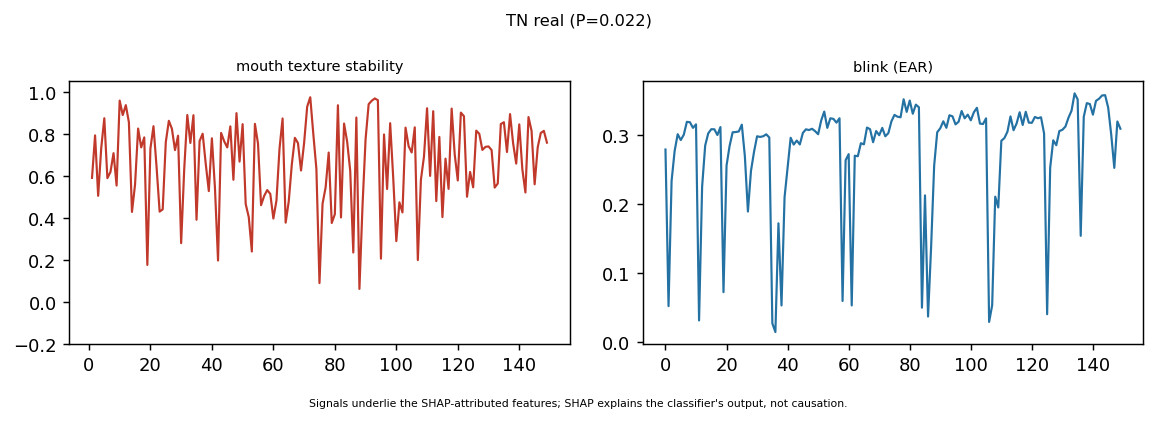
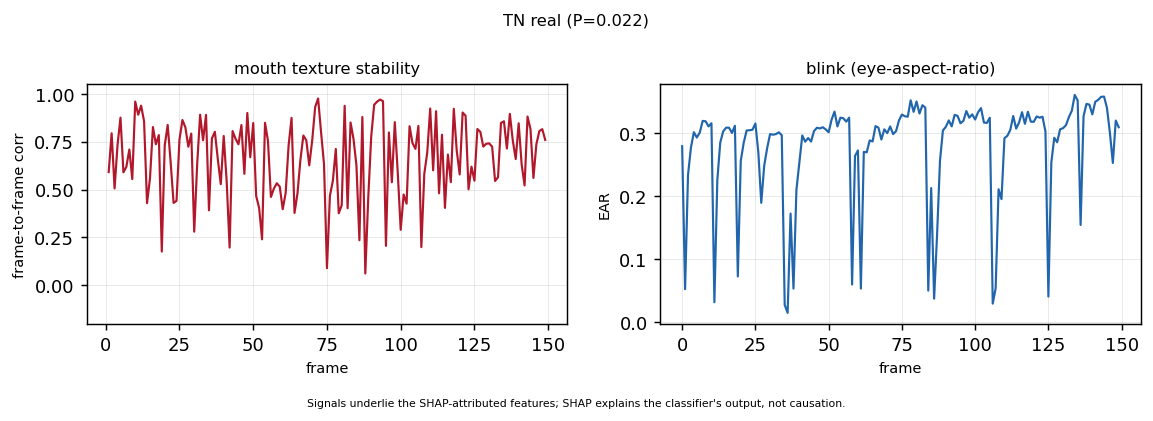
Publication figures: 10 validated colorblind-safe figures (real data) + polished signal plots

Changed region(s): [[0.0, 0.1235, 0.9991, 0.8955], [0.2498, 0.9264, 0.5932, 0.9881], [0.4371, 0.0309, 0.562, 0.0618]]

diff --git a/Major Revision Results/00_logs/pub_figures.py b/Major Revision Results/00_logs/pub_figures.py
@@ -1,0 +1,155 @@
+#!/usr/bin/env python3
+"""Publication-quality figures for the revision — renders REAL committed numbers only (no fabrication).
+Reads results_clean/*.{json,csv}. Validated colorblind-safe palette. 300 DPI, direct labels, CIs."""
+import os,json,numpy as np,pandas as pd
+import matplotlib; matplotlib.use("Agg"); import matplotlib.pyplot as plt
+from matplotlib.patches import Patch
+R="results_clean"; FIG="Major Revision Results/03_figures/publication"; os.makedirs(FIG,exist_ok=True)
+BLUE,ORANGE,PURPLE,RED="#2166AC","#E08214","#762A83","#B2182B"; GREY="#52514e"
+plt.rcParams.update({'font.size':11,'axes.titlesize':12,'axes.labelsize':11,'xtick.labelsize':9.5,
+ 'ytick.labelsize':9.5,'legend.fontsize':9.5,'figure.dpi':300,'savefig.dpi':300,'savefig.bbox':'tight',
+ 'axes.spines.top':False,'axes.spines.right':False,'axes.axisbelow':True,'font.family':'DejaVu Sans'})
+def grid(ax): ax.grid(True,axis='y',alpha=0.3,lw=0.5); ax.set_axisbelow(True)
+def lbl(ax,bars,fmt="{:.3f}",dy=0.004,fs=8.5):
+    for b in bars:
+        h=b.get_height(); ax.text(b.get_x()+b.get_width()/2,h+dy,fmt.format(h),ha='center',va='bottom',fontsize=fs)
+MAN=["Deepfakes","FaceSwap","Face2Face","NeuralTextures"]; mk=lambda s:s.lower()
+
+# ---- Fig 1: per-manipulation AUC 50-D vs 53-D (+CI, +significance) ----
+tc=json.load(open(f"{R}/track_c_53D_full.json"))
+dl={r['manip']:r for r in pd.read_csv(f"{R}/delong_53vs50.csv").to_dict('records')}
+fig,ax=plt.subplots(figsize=(7.2,4.2)); x=np.arange(len(MAN)); w=0.38
+a50=[tc[m]['base50'][0] for m in MAN]; a53=[tc[m]['plusG1'][0] for m in MAN]
+e50=[[a-tc[m]['base50'][1][0] for a,m in zip(a50,MAN)],[tc[m]['base50'][1][1]-a for a,m in zip(a50,MAN)]]
+e53=[[a-tc[m]['plusG1'][1][0] for a,m in zip(a53,MAN)],[tc[m]['plusG1'][1][1]-a for a,m in zip(a53,MAN)]]
+b1=ax.bar(x-w/2,a50,w,yerr=e50,capsize=3,color=BLUE,label='50-D (base)',error_kw=dict(lw=1,ecolor=GREY))
+b2=ax.bar(x+w/2,a53,w,yerr=e53,capsize=3,color=ORANGE,label='53-D (+G1 mouth)',error_kw=dict(lw=1,ecolor=GREY))
+lbl(ax,b1,dy=0.012); lbl(ax,b2,dy=0.012)
+for i,m in enumerate(MAN):
+    p=dl[m]['p_value'] if m in dl else 1
+    s='***' if p<1e-3 else '**' if p<1e-2 else '*' if p<0.05 else 'n.s.'
+    yst=max(a50[i]+e50[1][i],a53[i]+e53[1][i])+0.012; ax.text(x[i],yst,s,ha='center',fontsize=11,fontweight='bold')
+ax.set_xticks(x); ax.set_xticklabels(MAN); ax.set_ylabel('AUC (identity-disjoint test)'); ax.set_ylim(0.6,1.06)
+ax.set_title('In-distribution detection: 50-D vs 53-D (extended)',pad=14); ax.legend(loc='lower right'); grid(ax)
+ax.text(0.01,-0.17,'Error bars: bootstrap 95% CI. Significance: DeLong test (*** p<0.001, ** p<0.01, * p<0.05, n.s. not sig.).',transform=ax.transAxes,fontsize=7.5,color=GREY)
+plt.savefig(f"{FIG}/fig1_indist_50v53.png"); plt.close()
+
+# ---- Fig 2: generalization ladder (in-dist -> cross-manip -> cross-dataset) + Xception ----
+bl=json.load(open(f"{R}/baseline.json"))['results']; xc=json.load(open(f"{R}/xception_baseline.json"))
+fig,ax=plt.subplots(figsize=(7.6,4.2))
+cats=['In-dist\n(mean per-manip)','Cross-manip\n(LOMO mean)','Zero-shot\nCeleb-DF','Zero-shot\nWildDeepfake']
+prism=[np.mean([bl['regime1_in_distribution'][m]['auc'] for m in bl['regime1_in_distribution']]),
+       np.mean([bl['regime2_cross_manip_LOMO'][m]['auc'] for m in bl['regime2_cross_manip_LOMO']]),
+       bl['regime3_zero_shot_celebdf']['CelebDF_v2']['auc'],
+       json.load(open(f"{R}/zeroshot_wilddeepfake.json"))['auc']]
+xcep=[xc['ffpp_test_overall']['auc'],np.nan,xc['celebdf_zeroshot']['auc'],np.nan]
+x=np.arange(len(cats)); w=0.38
+b1=ax.bar(x-w/2,prism,w,color=BLUE,label='PRISM (physics, CPU)')
+b2=ax.bar([x[i]+w/2 for i in range(len(cats)) if not np.isnan(xcep[i])],[v for v in xcep if not np.isnan(v)],w,color=PURPLE,label='Xception (deep, GPU)')
+lbl(ax,b1,dy=0.012); lbl(ax,b2,dy=0.012)
+ax.axhline(0.5,ls='--',lw=1,color=GREY); ax.text(len(cats)-0.5,0.51,'chance',fontsize=8,color=GREY,ha='right')
+ax.set_xticks(x); ax.set_xticklabels(cats); ax.set_ylabel('AUC'); ax.set_ylim(0.4,1.02)
+ax.set_title('Generalization: in-distribution → cross-manipulation → cross-dataset'); ax.legend(loc='upper right'); grid(ax)
+plt.savefig(f"{FIG}/fig2_generalization.png"); plt.close()
+
+# ---- Fig 3: compression c23 vs c40 ----
+cp=json.load(open(f"{R}/compression.json"))
+pm={r['manipulation']:r for r in cp['per_manip']}
+fig,ax=plt.subplots(figsize=(7.2,4.2)); x=np.arange(len(MAN)); w=0.38
+c23=[pm[mk(m)]['c23_auc'] for m in MAN]; c40=[pm[mk(m)]['c40_auc'] for m in MAN]
+b1=ax.bar(x-w/2,c23,w,color=BLUE,label='c23 (light compression)'); b2=ax.bar(x+w/2,c40,w,color=RED,label='c40 (heavy compression)')
+lbl(ax,b1,dy=0.008); lbl(ax,b2,dy=0.008)
+for i,m in enumerate(MAN): ax.text(x[i],min(c23[i],c40[i])-0.05,f"Δ{pm[mk(m)]['delta_auc']:+.3f}",ha='center',fontsize=8,color=RED)
+ax.set_xticks(x); ax.set_xticklabels(MAN); ax.set_ylabel('AUC'); ax.set_ylim(0.6,1.02)
+ax.set_title('Compression robustness (c23 vs c40), per manipulation'); ax.legend(loc='lower left'); grid(ax)
+plt.savefig(f"{FIG}/fig3_compression.png"); plt.close()
+
+# ---- Fig 4: pillar-only standalone AUC heatmap (20 pillars x 5 datasets) ----
+po=pd.read_csv(f"{R}/pillar_only.csv"); order=list(json.load(open("splits/pillar_map.json")).keys())
+piv=po.pivot(index="pillar",columns="dataset",values="pillar_only_auc").reindex(index=order,columns=["Deepfakes","Face2Face","FaceSwap","NeuralTextures","CelebDF"])
+fig,ax=plt.subplots(figsize=(6.4,7.6))
+im=ax.imshow(piv.values,cmap='YlOrRd',vmin=0.5,vmax=1.0,aspect='auto')
+ax.set_xticks(range(piv.shape[1])); ax.set_xticklabels(piv.columns,rotation=30,ha='right')
+ax.set_yticks(range(piv.shape[0])); ax.set_yticklabels(piv.index,fontsize=8)
+for i in range(piv.shape[0]):
+    for j in range(piv.shape[1]):
+        v=piv.values[i,j]; ax.text(j,i,f"{v:.2f}",ha='center',va='center',fontsize=6.5,color='white' if v>0.8 else 'black')
+plt.colorbar(im,fraction=0.046,pad=0.04,label='standalone AUC')
+ax.set_title('Per-pillar standalone discriminative power'); plt.savefig(f"{FIG}/fig4_pillar_standalone.png"); plt.close()
+
+# ---- Fig 5: SHAP cross-manipulation ranking Spearman ----
+ss=json.load(open(f"{R}/shap_stability.json")); sp=ss['per_manip_spearman']
+labels=["Deepfakes","Face2Face","FaceSwap","NeuralTextures"]; M=np.eye(4)
+for k,v in sp.items():
+    a,b=k.split('~'); i,j=labels.index(a),labels.index(b); M[i,j]=v; M[j,i]=v
+fig,ax=plt.subplots(figsize=(5.4,4.6)); im=ax.imshow(M,cmap='RdBu_r',vmin=-1,vmax=1)
+ax.set_xticks(range(4)); ax.set_xticklabels(labels,rotation=30,ha='right'); ax.set_yticks(range(4)); ax.set_yticklabels(labels)
+for i in range(4):
+    for j in range(4): ax.text(j,i,f"{M[i,j]:.2f}",ha='center',va='center',fontsize=9,color='white' if abs(M[i,j])>0.6 else 'black')
+plt.colorbar(im,fraction=0.046,pad=0.04,label="Spearman ρ")
+ax.set_title(f"SHAP ranking similarity across manipulations\n(cross-fold ρ={ss['mean_cross_fold_spearman']}, i.e. fold-stable)")
+plt.savefig(f"{FIG}/fig5_shap_stability.png"); plt.close()
+
+# ---- Fig 6: calibration real vs fake recall tradeoff ----
+cal=json.load(open(f"{R}/calibration.json"))['celebdf']
+fig,ax=plt.subplots(figsize=(7.0,4.2)); cfgs=[c['config'] for c in cal]; x=np.arange(len(cfgs)); w=0.38
+rr=[c['real_recall'] for c in cal]; fr=[c['fake_recall'] for c in cal]
+b1=ax.bar(x-w/2,rr,w,color=BLUE,label='real recall'); b2=ax.bar(x+w/2,fr,w,color=ORANGE,label='fake recall')
+lbl(ax,b1,dy=0.01,fs=8); lbl(ax,b2,dy=0.01,fs=8)
+ax.set_xticks(x); ax.set_xticklabels([c.replace('_','\n') for c in cfgs],fontsize=8); ax.set_ylabel('recall (Celeb-DF)'); ax.set_ylim(0,1.05)
+ax.set_title('Threshold calibration only TRADES real vs fake recall (AUC fixed 0.632)'); ax.legend(loc='upper center',ncol=2); grid(ax)
+plt.savefig(f"{FIG}/fig6_calibration.png"); plt.close()
+
+# ---- Fig 7: runtime per-stage ----
+rt=json.load(open(f"{R}/runtime.json")); sm=rt['aggregate']['stage_means_s']
+fig,ax=plt.subplots(figsize=(6.8,4.0))
+stages=['frame_load_s','mediapipe_s','optical_flow_s','rppg_s','other_s']; names=['frame load','MediaPipe','optical flow','rPPG','other temporal']
+vals=[sm[s] for s in stages]; bars=ax.barh(names,vals,color=[BLUE,PURPLE,ORANGE,RED,GREY])
+for b,v in zip(bars,vals): ax.text(v+0.4,b.get_y()+b.get_height()/2,f"{v:.1f}s",va='center',fontsize=9)
+ax.set_xlabel('mean time per video (s), single CPU thread'); ax.invert_yaxis()
+ax.set_title(f"Per-stage extraction time  (total {rt['aggregate']['mean_total_extract_s']:.0f}s/video, RTF {rt['aggregate']['mean_rtf']}, {rt['aggregate']['mean_peak_ram_mb']/1000:.1f} GB RAM)")
+ax.grid(True,axis='x',alpha=0.3,lw=0.5); plt.savefig(f"{FIG}/fig7_runtime.png"); plt.close()
+
+# ---- Fig 8: PRNU residual method comparison ----
+pr=json.load(open(f"{R}/prnu_comparison.json"))['classification']
+methods=[r for r in pr if r['residual_method'] in ('median','gaussian','wavelet')]
+fig,ax=plt.subplots(figsize=(7.2,4.2)); x=np.arange(len(MAN)); w=0.26; cols=[BLUE,ORANGE,PURPLE]
+for k,(mth,c) in enumerate(zip(methods,cols)):
+    vals=[mth[f"auc_{mk(m)}"] for m in MAN]; b=ax.bar(x+(k-1)*w,vals,w,color=c,label=mth['residual_method'])
+    lbl(ax,b,dy=0.006,fs=7)
+ax.set_xticks(x); ax.set_xticklabels(MAN); ax.set_ylabel('AUC'); ax.set_ylim(0.6,1.02)
+ax.set_title('PRNU-inspired residual: method robustness (median≈gaussian≈wavelet; BM3D not computed)')
+ax.legend(title='residual method',loc='lower left',ncol=3); grid(ax)
+plt.savefig(f"{FIG}/fig8_prnu.png"); plt.close()
+
+# ---- Fig 9: rPPG per-condition ----
+rp=json.load(open(f"{R}/rppg_comparison.json"))['results']
+conds=['overall','c23','c40','low_motion','high_motion','low_illum','high_illum','short_seq','long_seq']
+clabels=['overall','c23','c40','low mot','high mot','low illum','high illum','short','long']
+fig,ax=plt.subplots(figsize=(8.6,4.2)); x=np.arange(len(conds)); w=0.26; cols=[BLUE,ORANGE,PURPLE]
+for k,(row,c) in enumerate(zip(rp,cols)):
+    vals=[row.get(cc) if row.get(cc) is not None else np.nan for cc in conds]
+    ax.bar(x+(k-1)*w,vals,w,color=c,label=row['method'])
+ax.axhline(0.5,ls='--',lw=1,color=GREY); ax.text(len(conds)-0.5,0.505,'chance',fontsize=8,color=GREY,ha='right')
+ax.set_xticks(x); ax.set_xticklabels(clabels,rotation=25,ha='right'); ax.set_ylabel('real-vs-fake AUC'); ax.set_ylim(0.4,0.65)
+ax.set_title('rPPG discriminative power by condition (weak; POS best & most compression-robust)')
+ax.legend(title='rPPG method',loc='upper right',ncol=3); grid(ax)
+plt.savefig(f"{FIG}/fig9_rppg.png"); plt.close()
+
+# ---- Fig 10: DeLong significance (full-50 vs top-k) ----
+st=json.load(open(f"{R}/statistical_tests.json"))['delong']
+sub=[r for r in st if 'full50_vs_top' in r['comparison']]
+fig,ax=plt.subplots(figsize=(7.6,4.2))
+names=[r['comparison'].replace('full50_vs_','').replace('[','\n[').replace(']','') for r in sub]
+diffs=[r['auc_diff'] for r in sub]; sig=[r['p_holm']<0.05 for r in sub]
+bars=ax.bar(range(len(sub)),diffs,color=[BLUE if s else GREY for s in sig])
+for i,(b,r) in enumerate(zip(bars,sub)):
+    st_=('***' if r['p_holm']<1e-3 else '**' if r['p_holm']<1e-2 else '*' if r['p_holm']<0.05 else 'n.s.')
+    ax.text(b.get_x()+b.get_width()/2,b.get_height()+0.003,st_,ha='center',fontsize=9,fontweight='bold')
+ax.set_xticks(range(len(sub))); ax.set_xticklabels(names,fontsize=7.5,rotation=0)
+ax.set_ylabel('AUC advantage of full-50 model'); ax.set_title('Full 50-feature model vs reduced sets (DeLong, Holm-corrected)')
+ax.legend(handles=[Patch(color=BLUE,label='significant (p_holm<0.05)'),Patch(color=GREY,label='n.s.')],loc='upper right'); grid(ax)
+plt.savefig(f"{FIG}/fig10_delong_topk.png"); plt.close()
+
+print("saved 10 publication figures to",FIG)
+for f in sorted(os.listdir(FIG)): print("  ",f)

diff --git a/Major Revision Results/00_logs/exp10_signals.py b/Major Revision Results/00_logs/exp10_signals.py
@@ -54,8 +54,8 @@ print(f"saved {FIG}/case_signals_all.png")
 for tag,(vp,title) in CASES.items():
     mouth,ear=signals(vp)
     fig,ax=plt.subplots(1,2,figsize=(9,3))
-    ax[0].plot(mouth,color="#c0392b",lw=1.2); ax[0].set_title("mouth texture stability",fontsize=8); ax[0].set_ylim(-0.2,1.05)
-    ax[1].plot(ear,color="#2471a3",lw=1.2); ax[1].set_title("blink (EAR)",fontsize=8)
+    ax[0].plot(mouth,color="#B2182B",lw=1.2); ax[0].set_title("mouth texture stability",fontsize=9); ax[0].set_ylim(-0.2,1.05); ax[0].set_xlabel("frame",fontsize=8); ax[0].set_ylabel("frame-to-frame corr",fontsize=8); ax[0].grid(alpha=0.3,lw=0.5)
+    ax[1].plot(ear,color="#2166AC",lw=1.2); ax[1].set_title("blink (eye-aspect-ratio)",fontsize=9); ax[1].set_xlabel("frame",fontsize=8); ax[1].set_ylabel("EAR",fontsize=8); ax[1].grid(alpha=0.3,lw=0.5)
     fig.suptitle(title,fontsize=9); plt.figtext(0.5,-0.03,CAVEAT,ha="center",fontsize=6)
     plt.tight_layout(); plt.savefig(f"{FIG}/case_signal_{tag}.png",dpi=130,bbox_inches="tight"); plt.close()
     print(f"  saved case_signal_{tag}.png")
